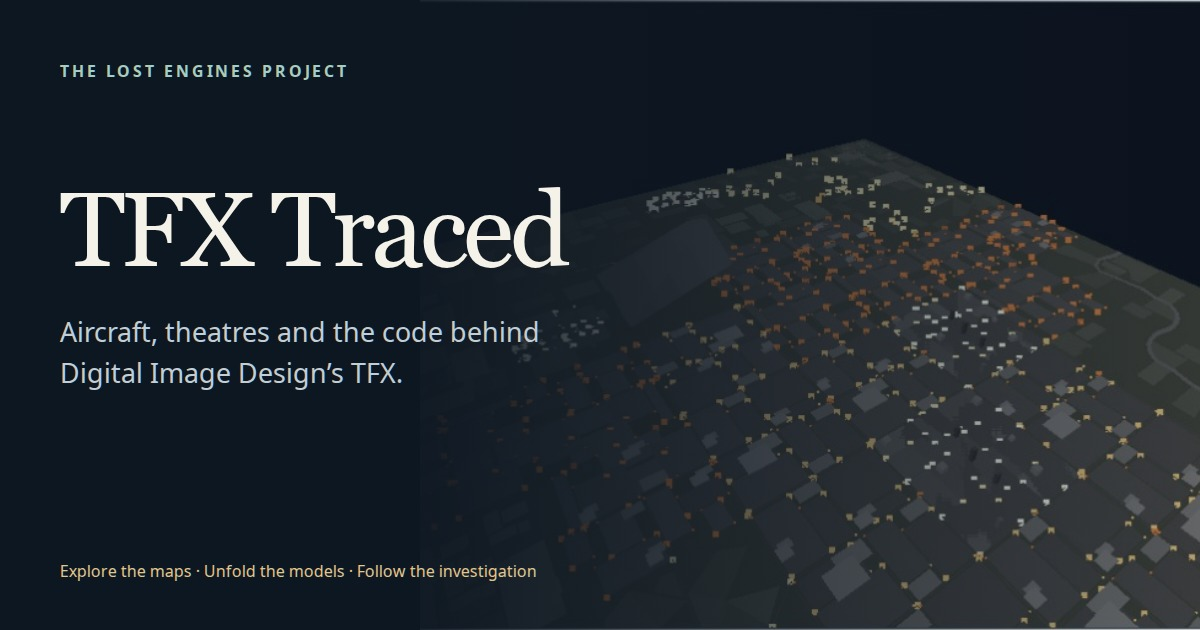
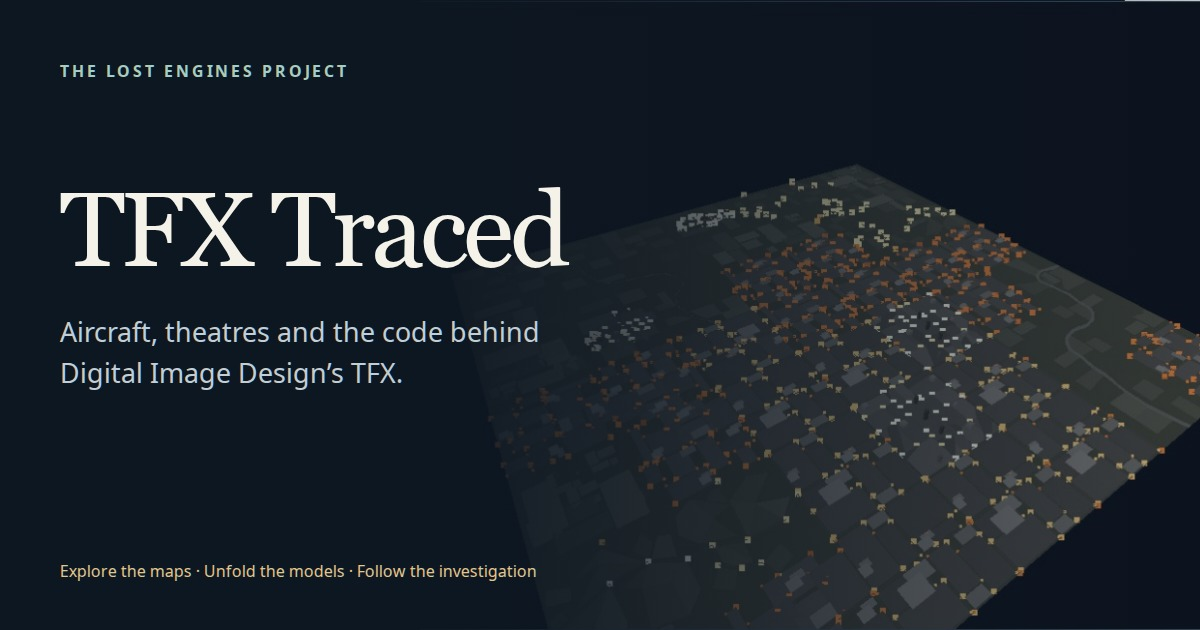
Use regional terrain with separate lighting in the map explorer

diff --git a/public/viewer/maps/viewer.js b/public/viewer/maps/viewer.js
@@ -1,7 +1,23 @@
 'use strict';
 const el=id=>document.getElementById(id),environments=TFX_WORLD.environments,missions=TFX_WORLD.missions;
-let environment=environments.find(e=>e.name==='yugos_n'),mission=null,x=136,z=114,yaw=.6,pitch=.65,distance=11,mesh,sceneRadius=1,hiddenRoutes=new Set();
-el('environment').replaceChildren(...environments.map(e=>new Option(e.name,e.name)));
+let environment=TFXScenery.environmentNamed('yugoslav'),lighting=TFXScenery.environmentNamed('yugos_n'),mission=null,x=136,z=114,yaw=.6,pitch=.65,distance=11,mesh,sceneRadius=1,hiddenRoutes=new Set();
+for(const [label,rows]of [
+ ['Game terrain',TFXScenery.regions.map(r=>new Option(`${r.label} (${r.name})`,r.name))],
+ ['Archived and auxiliary grids — inspection only',environments.filter(e=>!TFXScenery.isRegional(e)).map(e=>new Option(e.name==='clouds'?'clouds (cloud layer)':`Archived: ${e.name}`,e.name))]
+]){const group=document.createElement('optgroup');group.label=label;group.append(...rows);el('environment').append(group);}
+function chooseLighting(preferred){
+ const choices=TFXScenery.lightingChoices(environment),fallback=TFXScenery.regionFor(environment.name)?.day;
+ lighting=choices.find(e=>e.name===preferred)||choices.find(e=>e.name===fallback)||null;
+ el('lighting').replaceChildren(...choices.map(e=>new Option(e.name,e.name)));
+ el('lighting').disabled=!choices.length;if(lighting)el('lighting').value=lighting.name;
+}
+function updateURL(){
+ const url=new URL(location.href);url.hash=`${environment.name}/${x}/${z}`;
+ if(mission)url.searchParams.set('mission',mission.id);else url.searchParams.delete('mission');
+ if(lighting)url.searchParams.set('lighting',lighting.name);else url.searchParams.delete('lighting');
+ if(TFXScenery.isRegional(environment))url.searchParams.delete('retained');else url.searchParams.set('retained','1');
+ history.replaceState(null,'',url);
+}
 TFXMissions.groupSelect(el('mission-group'));
 TFXMissions.missionOptions(el('mission'),missions);
 el('palette').replaceChildren(...Object.keys(TFX_DATA.palettes).map(name=>new Option(name,name)));
@@ -47,16 +63,31 @@ function rebuild(){mesh=TFXScenery.assemble(environment,x,z,+el('radius').value,
  render();}
 function render(){if(!gl)return;const rect=canvas.getBoundingClientRect(),ratio=Math.min(devicePixelRatio||1,2);canvas.width=Math.round(rect.width*ratio);canvas.height=Math.round(rect.height*ratio);gl.viewport(0,0,canvas.width,canvas.height);gl.clearColor(.05,.08,.12,1);gl.clear(gl.COLOR_BUFFER_BIT|gl.DEPTH_BUFFER_BIT);gl.useProgram(program);/* Flip Y and Z together to preserve handedness in WebGL; match the model viewer's native orbit. */const camera=[Math.sin(yaw)*Math.cos(pitch)*distance,Math.sin(pitch)*distance,-Math.cos(yaw)*Math.cos(pitch)*distance],forward=camera.map(v=>-v/distance),right=[-Math.cos(yaw),0,-Math.sin(yaw)],up=[-Math.sin(yaw)*Math.sin(pitch),Math.cos(pitch),Math.cos(yaw)*Math.sin(pitch)];for(const [key,value] of Object.entries({camera,forward,right,up}))gl.uniform3fv(gl.getUniformLocation(program,key),value);gl.uniform1f(gl.getUniformLocation(program,'aspect'),canvas.width/canvas.height);gl.uniform1f(gl.getUniformLocation(program,'pixelScale'),Math.min(canvas.width/320,canvas.height/200));const near=Math.max(.01,(distance-sceneRadius)*.5),far=distance+sceneRadius+1;gl.uniform2fv(gl.getUniformLocation(program,'depthProjection'),[(far+near)/(far-near),2*far*near/(far-near)]);/* The inspection backdrop fills gaps but must never compete with
    authored terrain for depth, especially over distant flat water. */gl.depthMask(false);gl.drawArrays(gl.TRIANGLES,0,backdropVertexCount);gl.depthMask(true);gl.drawArrays(gl.TRIANGLES,backdropVertexCount,vertexCount-backdropVertexCount);gl.drawArrays(gl.LINES,lineStart,totalLines);gl.depthMask(false);gl.drawArrays(gl.POINTS,pointStart,totalPoints);gl.depthMask(true);if(el('bounds').checked)gl.drawArrays(gl.LINES,collisionStart,totalCollisions);}
-function drawMap(){const c=el('map'),ctx=c.getContext('2d');TFXMap.drawBackground(ctx,environment,palette(),el('map-mode').value);if(el('routes').checked&&mission){const set=TFX_WORLD.waypoints[mission.way];for(const [index,route] of (set?.routes||[]).entries()){if(hiddenRoutes.has(index))continue;ctx.strokeStyle=index===0?'#ffe77b':`hsl(${index*47%360} 80% 65%)`;ctx.lineWidth=index===0?3:1.5;ctx.beginPath();route.points.forEach((p,i)=>i?ctx.lineTo((p.x+.5)*4,(p.z+.5)*4):ctx.moveTo((p.x+.5)*4,(p.z+.5)*4));ctx.stroke();}}
+function drawMap(){const c=el('map'),ctx=c.getContext('2d');TFXMap.drawBackground(ctx,environment,palette(),el('map-mode').value,lighting);if(el('routes').checked&&mission){const set=TFX_WORLD.waypoints[mission.way];for(const [index,route] of (set?.routes||[]).entries()){if(hiddenRoutes.has(index))continue;ctx.strokeStyle=index===0?'#ffe77b':`hsl(${index*47%360} 80% 65%)`;ctx.lineWidth=index===0?3:1.5;ctx.beginPath();route.points.forEach((p,i)=>i?ctx.lineTo((p.x+.5)*4,(p.z+.5)*4):ctx.moveTo((p.x+.5)*4,(p.z+.5)*4));ctx.stroke();}}
  if(el('compiled').checked&&mission){const program=TFX_WAYPOINTS.programs.find(p=>p.names.some(n=>n===`waybin/${mission.way}.way`));if(program){for(const [i,r]of program.records.entries()){ctx.strokeStyle=r.type===18?'#fff399':r.type===16?'#fd9f70':'#78d7ff';ctx.fillStyle=ctx.strokeStyle;ctx.lineWidth=1;ctx.setLineDash([4,3]);ctx.beginPath();(r.route||[]).forEach((p,n)=>n?ctx.lineTo((p.x+.5)*4,(p.z+.5)*4):ctx.moveTo((p.x+.5)*4,(p.z+.5)*4));ctx.stroke();ctx.setLineDash([]);if(r.x!==undefined){ctx.fillRect((r.x+.5)*4-3,(r.z+.5)*4-3,6,6);}}}}
  if(el('poi').checked&&mission){for(const p of mission.points){ctx.fillStyle=p.kind==='start'?'#61ffee':'#ff7e63';ctx.beginPath();ctx.arc((p.x+(p.kind==='start'?0:.5))*4,(p.z+(p.kind==='start'?0:.5))*4,5,0,Math.PI*2);ctx.fill();ctx.strokeStyle='#000';ctx.stroke();}ctx.strokeStyle='#fc7cc4';for(const box of mission.flak)ctx.strokeRect(box[0]*4,box[1]*4,(box[2]-box[0])*4,(box[3]-box[1])*4);}
  ctx.strokeStyle='#fff';ctx.lineWidth=2;ctx.strokeRect(x*4-2,z*4-2,8,8);ctx.fillStyle='#fff';ctx.font='12px system-ui';for(let i=0;i<200;i+=25){ctx.fillText(i,i*4+3,13);ctx.fillText(i,3,i*4+15);}}
-function selectCell(){const id=environment.cells[z*200+x],tile=environment.tiles[id];el('cell-title').textContent=`Cell (${x}, ${z}) · tile ${id}`;el('cell-info').textContent=tile?`${tile.variants.length} scenery variants · preview: ${TFXScenery.variant(environment,x,z)} · rotation ${(tile.rotation*360/65536).toFixed(0)}°`:'Undefined tile index in the stored table';el('tile-data').textContent=JSON.stringify(tile||{undefined_tile:id},null,2);el('components').replaceChildren(...(tile?.variants||[]).map(name=>{const d=document.createElement('details'),summary=document.createElement('summary');summary.textContent=name+(name===TFXScenery.variant(environment,x,z)?' (previewed variant)':'');d.append(summary);const object=TFXScenery.objects.get(name),parts=TFXScenery.parts(name);for(const p of parts){const m=TFXScenery.models.get(p.name),a=document.createElement('a');a.textContent=`${p.name} at (${p.offset.join(', ')})`;if(m)a.href='../models/index.html#'+m.id;d.append(a,document.createElement('br'));}if(object){const pre=document.createElement('pre');pre.textContent=JSON.stringify({path:object.path,anchors:object.anchors,parts:object.parts,draw_parts:object.draw_parts,collision_tests:object.collision_tests,custom_initial_values:object.custom_initial_values,warnings:object.warnings},null,2);d.append(pre);}return d;}));history.replaceState(null,'',`#${environment.name}/${x}/${z}`);drawMap();rebuild();}
-function settings(){el('map-status').textContent=`${environment.name}: 200 × 200 cells, ${environment.tiles.length} authored tiles.`;}
-function selectMission(focus){mission=missions.find(m=>m.id===el('mission').value)||null;hiddenRoutes.clear();if(mission){const env=environments.find(e=>e.name===mission.environment);if(env){environment=env;el('environment').value=env.name;choosePalette();}const start=mission.points.find(p=>p.kind==='start');if(start){x=Math.max(0,Math.min(199,Math.floor(start.x)));z=Math.max(0,Math.min(199,Math.floor(start.z)));}}const set=mission&&TFX_WORLD.waypoints[mission.way];el('mission-data').textContent=mission?.script||'Select a mission to inspect its script.';TFXMissions.card(el('mission-info'),mission);const url=new URL(location.href);if(mission)url.searchParams.set('mission',mission.id);else url.searchParams.delete('mission');history.replaceState(null,'',url);el('way-data').textContent=set?.text||'No corresponding waypoint text was recovered.';el('route-list').replaceChildren(...(set?.routes||[]).map((r,i)=>{const label=document.createElement('label');label.style.display='flex';const box=document.createElement('input');box.type='checkbox';box.checked=true;box.onchange=()=>{box.checked?hiddenRoutes.delete(i):hiddenRoutes.add(i);drawMap();};label.append(box,`${r.name} (${r.points.length} waypoints)`);return label;}));if(focus?.environment===environment.name){x=focus.x;z=focus.z;}settings();selectCell();}
-function choosePalette(){el('palette').value=TFXMap.paletteName(environment);el('night-lights').checked=Boolean(TFXScenery.environmentStatus(environment));}
+function selectCell(){const id=environment.cells[z*200+x],tile=environment.tiles[id];el('cell-title').textContent=`Cell (${x}, ${z}) · tile ${id}`;el('cell-info').textContent=tile?`${tile.variants.length} scenery variants · preview: ${TFXScenery.variant(environment,x,z)} · rotation ${(tile.rotation*360/65536).toFixed(0)}°`:'Undefined tile index in the stored table';el('tile-data').textContent=JSON.stringify(tile||{undefined_tile:id},null,2);el('components').replaceChildren(...(tile?.variants||[]).map(name=>{const d=document.createElement('details'),summary=document.createElement('summary');summary.textContent=name+(name===TFXScenery.variant(environment,x,z)?' (previewed variant)':'');d.append(summary);const object=TFXScenery.objects.get(name),parts=TFXScenery.parts(name);for(const p of parts){const m=TFXScenery.models.get(p.name),a=document.createElement('a');a.textContent=`${p.name} at (${p.offset.join(', ')})`;if(m)a.href='../models/index.html#'+m.id;d.append(a,document.createElement('br'));}if(object){const pre=document.createElement('pre');pre.textContent=JSON.stringify({path:object.path,anchors:object.anchors,parts:object.parts,draw_parts:object.draw_parts,collision_tests:object.collision_tests,custom_initial_values:object.custom_initial_values,warnings:object.warnings},null,2);d.append(pre);}return d;}));updateURL();drawMap();rebuild();}
+function settings(){el('map-status').textContent=TFXScenery.mapDescription(environment,lighting);el('grid-note').textContent=TFXScenery.gridNote(environment);}
+function selectMission(focus){mission=missions.find(m=>m.id===el('mission').value)||null;hiddenRoutes.clear();if(mission){const env=TFXScenery.missionGrid(mission);if(env){environment=env;el('environment').value=env.name;chooseLighting(mission.environment);choosePalette();}const start=mission.points.find(p=>p.kind==='start');if(start){x=Math.max(0,Math.min(199,Math.floor(start.x)));z=Math.max(0,Math.min(199,Math.floor(start.z)));}}const set=mission&&TFX_WORLD.waypoints[mission.way];el('mission-data').textContent=mission?.script||'Select a mission to inspect its script.';TFXMissions.card(el('mission-info'),mission);el('way-data').textContent=set?.text||'No corresponding waypoint text was recovered.';el('route-list').replaceChildren(...(set?.routes||[]).map((r,i)=>{const label=document.createElement('label');label.style.display='flex';const box=document.createElement('input');box.type='checkbox';box.checked=true;box.onchange=()=>{box.checked?hiddenRoutes.delete(i):hiddenRoutes.add(i);drawMap();};label.append(box,`${r.name} (${r.points.length} waypoints)`);return label;}));if(focus?.environment===environment.name){x=focus.x;z=focus.z;}settings();selectCell();}
+function choosePalette(){el('palette').value=TFXMap.paletteName(lighting||environment);el('night-lights').checked=Boolean(lighting&&TFXScenery.environmentStatus(lighting));}
 function filterMissions(){const previous=el('mission').value,query=el('mission-search').value,rows=missions.filter(m=>TFXMissions.matches(m,el('mission-group').value)&&TFXMissions.search(m,query));TFXMissions.missionOptions(el('mission'),rows);if(rows.some(m=>m.id===previous))el('mission').value=previous;if(el('mission').value!==previous)selectMission();}
 el('mission-group').onchange=filterMissions;el('mission-search').oninput=filterMissions;
-el('environment').onchange=()=>{environment=environments.find(e=>e.name===el('environment').value);mission=null;el('mission').value='';choosePalette();settings();selectMission();};el('mission').onchange=selectMission;el('palette').onchange=()=>{drawMap();rebuild();};for(const id of ['routes','poi','compiled','map-mode'])el(id).onchange=drawMap;el('map').onclick=e=>{const r=e.currentTarget.getBoundingClientRect();x=Math.max(0,Math.min(199,Math.floor((e.clientX-r.left)/r.width*200)));z=Math.max(0,Math.min(199,Math.floor((e.clientY-r.top)/r.height*200)));selectCell();};el('radius').onchange=()=>{distance=Math.max(3,(+el('radius').value+1)*2.5);rebuild();};el('bounds').onchange=render;el('night-lights').onchange=rebuild;el('reset').onclick=()=>{yaw=.6;pitch=.65;distance=Math.max(3,(+el('radius').value+1)*3);render();};let pointer;
+el('environment').onchange=()=>{environment=environments.find(e=>e.name===el('environment').value);mission=null;el('mission').value='';chooseLighting(environment.name);choosePalette();settings();selectMission();};el('mission').onchange=selectMission;el('lighting').onchange=()=>{lighting=TFXScenery.environmentNamed(el('lighting').value);choosePalette();settings();updateURL();drawMap();rebuild();};el('palette').onchange=()=>{drawMap();rebuild();};for(const id of ['routes','poi','compiled','map-mode'])el(id).onchange=drawMap;el('map').onclick=e=>{const r=e.currentTarget.getBoundingClientRect();x=Math.max(0,Math.min(199,Math.floor((e.clientX-r.left)/r.width*200)));z=Math.max(0,Math.min(199,Math.floor((e.clientY-r.top)/r.height*200)));selectCell();};el('radius').onchange=()=>{distance=Math.max(3,(+el('radius').value+1)*2.5);rebuild();};el('bounds').onchange=render;el('night-lights').onchange=rebuild;el('reset').onclick=()=>{yaw=.6;pitch=.65;distance=Math.max(3,(+el('radius').value+1)*3);render();};let pointer;
 canvas.onpointerdown=e=>{pointer=[e.clientX,e.clientY];canvas.setPointerCapture(e.pointerId);};canvas.onpointermove=e=>{if(!pointer)return;yaw+=(e.clientX-pointer[0])*.008;pitch=Math.max(-.2,Math.min(1.5,pitch+(e.clientY-pointer[1])*.008));pointer=[e.clientX,e.clientY];render();};canvas.onpointerup=canvas.onpointercancel=()=>pointer=null;canvas.onwheel=e=>{e.preventDefault();distance=Math.max(.2,Math.min(Math.max(80,sceneRadius*4),distance*Math.exp(e.deltaY*.001)));render();};addEventListener('resize',render);
-const hash=location.hash.slice(1).split('/');if(hash.length===3&&environments.some(e=>e.name===hash[0])){environment=environments.find(e=>e.name===hash[0]);x=Math.max(0,Math.min(199,+hash[1]||0));z=Math.max(0,Math.min(199,+hash[2]||0));el('environment').value=environment.name;}choosePalette();const requestedMission=new URLSearchParams(location.search).get('mission');if(requestedMission)el('mission').value=requestedMission;selectMission(hash.length===3?{environment:hash[0],x,z}:null);
+const query=new URLSearchParams(location.search),hash=location.hash.slice(1).split('/');
+let focus=null,requestedLighting=query.get('lighting')||lighting.name;
+if(hash.length===3&&TFXScenery.environmentNamed(hash[0])){
+ const stored=TFXScenery.environmentNamed(hash[0]),region=TFXScenery.regionFor(stored.name);
+ // Old public links named the weather setting. Keep their location and
+ // lighting while moving to the game terrain; retained=1 explicitly opts out.
+ environment=query.get('retained')==='1'||!region?stored:TFXScenery.environmentNamed(region.name);
+ requestedLighting=query.get('lighting')||(stored.config?stored.name:TFXScenery.regionFor(stored.name)?.day);
+ x=Math.max(0,Math.min(199,+hash[1]||0));z=Math.max(0,Math.min(199,+hash[2]||0));
+ focus={environment:environment.name,x,z};el('environment').value=environment.name;
+}
+chooseLighting(requestedLighting);choosePalette();
+const requestedMission=query.get('mission');if(requestedMission)el('mission').value=requestedMission;
+selectMission(focus);
+// An explicit lighting choice survives reloading a mission deep link.
+if(query.has('lighting')){chooseLighting(query.get('lighting'));choosePalette();settings();selectCell();}

diff --git a/public/viewer/maps/world.js b/public/viewer/maps/world.js
@@ -13,6 +13,29 @@ function geometry(name,status=0){const key=`${name}:${status}`;if(cache.has(key)
 // The original environment parser sets the shape status bit tested by city
 // and runway programs. Twilight configurations also explicitly request night.
 function environmentStatus(environment){return (environment.config||'').split(/\s+/).includes('night')?nightStatus:0;}
+// The mission's world selects geometry; type selects a separate lighting
+// configuration. Weather-named grids are retained data, not retail maps.
+const regions=[
+ {name:'yugoslav',label:'Yugoslavia',prefix:'yugos',day:'yugos_d'},
+ {name:'columbia',label:'Colombia',prefix:'colum',day:'colum_d'},
+ {name:'somalia',label:'Somalia',prefix:'somal',day:'somal_d'},
+ {name:'libya',label:'Libya',prefix:'libya',day:'libya_d'},
+ {name:'seaworld',label:'Atlantic',prefix:'sea',day:'seaclear'}
+];
+const environmentNamed=name=>TFX_WORLD.environments.find(e=>e.name===name);
+function regionFor(name){return regions.find(r=>name?.startsWith(r.prefix)||(name==='y_winter'&&r.name==='yugoslav'));}
+function isRegional(environment){return regions.some(r=>r.name===environment?.name);}
+function missionGrid(mission){return environmentNamed(mission?.world?.toLowerCase().slice(0,8));}
+function lightingChoices(environment){const region=regionFor(environment?.name);return TFX_WORLD.environments.filter(e=>region&&regionFor(e.name)===region&&/\b(day|night)\b/.test(e.config));}
+function gridNote(environment){
+ if(environment.name==='clouds')return 'Cloud-layer geometry, shown here in isolation from its runtime altitude and regional ground map.';
+ return isRegional(environment)?'':'Archived terrain: this grid is not used for retail mission terrain. Obsolete scenery may appear here.';
+}
+function mapDescription(environment,lighting){
+ const note=gridNote(environment);
+ const undefinedCount=Object.keys(environment.undefined_tile_indices).length;
+ return `${environment.name}: ${environment.width} × ${environment.height} cells, ${environment.tiles.length} authored tiles. Lighting: ${lighting?.name||'none'}.${note?' '+note:''}${undefinedCount?' Undefined stored tile references are shown magenta.':''}`;
+}
 function parts(name){const definition=objects.get(name);if(!definition)return[{name,offset:[0,0,0]}];const draws=definition.draw_parts.length?definition.draw_parts:definition.parts.filter(p=>p.slot===0).map(p=>({slot:p.slot}));return draws.map(draw=>{const p=definition.parts.find(p=>p.slot===draw.slot);return p?{...p,offset:definition.anchors[draw.anchor]||[0,0,0]}:null;}).filter(Boolean);}
 // SSD draw calls enqueue complete shapes. Native 0xcc226 adds the model's
 // signed header bias to camera depth; the queue then paints far to near.
@@ -85,5 +108,5 @@ function assemble(environment,x,z,radius=0,{status=environmentStatus(environment
  }
  return{faces,lines,points,collisions,warnings:[...warnings],cells};
 }
-root.TFXScenery={assemble,parts,drawOrder,geometry,environmentStatus,nightStatus,variant,rotateTile,models,objects};
+root.TFXScenery={regions,environmentNamed,regionFor,isRegional,missionGrid,lightingChoices,gridNote,mapDescription,assemble,parts,drawOrder,geometry,environmentStatus,nightStatus,variant,rotateTile,models,objects};
 })(globalThis);

diff --git a/src/maps.html b/src/maps.html
@@ -1,7 +1,8 @@
 <noscript><p>The interactive viewer needs JavaScript. You can still <a href="../story/">read the illustrated investigation</a>.</p></noscript>
 
 <h1>Five theatres, thousands of small decisions</h1><p class="muted">Click the map to visit a patch of terrain. Increase the neighbourhood radius to see how the pieces fit together, or choose a mission to trace its routes and read the briefing. Try the night lights over Yugoslavia’s cities.</p>
-<div class="toolbar mission-navigation"><label>Mode / campaign <select id="mission-group"></select></label><label>Find mission <input id="mission-search" placeholder="Number, briefing, location…" type="search"/></label><label>Environment <select id="environment"></select></label><label>Mission <select id="mission"></select></label><label>Palette <select id="palette"></select></label></div>
+<div class="toolbar mission-navigation"><label>Mode / campaign <select id="mission-group"></select></label><label>Find mission <input id="mission-search" placeholder="Number, briefing, location…" type="search"/></label><label>Terrain <select id="environment"></select></label><label>Lighting <select id="lighting"></select></label><label>Mission <select id="mission"></select></label><label>Palette <select id="palette"></select></label></div>
+<p id="grid-note" class="muted" role="status"></p>
 <div class="panel" hidden="" id="mission-info"></div>
 <div class="split"><div><canvas height="800" aria-label="Top-down theatre map; select a cell to view its scenery" id="map" style="width:100%;border:1px solid #405063" width="800"></canvas><div class="toolbar"><label>Map <select id="map-mode"><option value="terrain">Terrain colours</option><option value="schematic">Original schematic</option><option value="ids">Tile identifiers</option></select></label><label><input checked="" id="routes" type="checkbox"/> Waypoints</label><label><input checked="" id="compiled" type="checkbox"/> Compiled actors &amp; routes</label><label><input checked="" id="poi" type="checkbox"/> Targets &amp; start</label></div><div class="panel" id="route-list" style="max-height:240px;overflow:auto"></div></div>
 <div><canvas height="700" aria-label="Assembled scenery; drag to orbit and scroll to zoom" id="scene" style="width:100%;background:#101824;border:1px solid #405063" width="1100"></canvas><div class="toolbar"><label>Neighbourhood radius <input id="radius" max="50" min="0" type="range" value="3"/><span id="radius-value">3 tiles</span></label><button id="reset">Reset view</button><label><input id="night-lights" type="checkbox"/> Night lights</label><label><input id="bounds" type="checkbox"/> Collision tests</label></div><p class="muted" id="scene-status"></p><div class="panel"><h2 id="cell-title"></h2><p id="cell-info"></p><div id="components"></div><details hidden=""><summary>Tile authoring metadata</summary><pre id="tile-data"></pre></details></div></div></div>

diff --git a/public/viewer/maps/map.js b/public/viewer/maps/map.js
@@ -10,7 +10,7 @@ function paletteName(environment) {
   return TFX_DATA.palettes[region]?region:Object.keys(TFX_DATA.palettes)[0];
 }
 function schematic(environment) {
-  const name=environment.config.trim().split(/\s+/).at(-1);
+  const name=environment?.config.trim().split(/\s+/).at(-1);
   if(!name)return null;
   const sprite=TFX_MEDIA.entries.find(e=>e.family==='sprites'&&(e.name===name||e.names.includes(`spr/${name}.spr`)));
   const frame=sprite?.frames[0];
@@ -36,10 +36,10 @@ function terrainColour(environment,colours,index,x,z,mode) {
   }
   return(colours[terrainColours.get(name)]||[15,22,30]).map(v=>Math.round(v*255/63));
 }
-function drawBackground(ctx,environment,colours,mode='terrain') {
+function drawBackground(ctx,environment,colours,mode='terrain',lighting=environment) {
   let cached=backgrounds.get(environment);
-  if(!cached||cached.colours!==colours||cached.mode!==mode) {
-    const {width,height}=environment,frame=mode==='schematic'?schematic(environment):null;
+  if(!cached||cached.colours!==colours||cached.mode!==mode||cached.lighting!==lighting) {
+    const {width,height}=environment,frame=mode==='schematic'?schematic(lighting):null;
     const bytes=frame?atob(frame.pixels):null,pixels=new Uint8ClampedArray(width*height*4);
     for(let i=0;i<width*height;i++) {
       const x=i%width,z=Math.floor(i/width);
@@ -49,7 +49,7 @@ function drawBackground(ctx,environment,colours,mode='terrain') {
     }
     const canvas=document.createElement('canvas');canvas.width=width;canvas.height=height;
     canvas.getContext('2d').putImageData(new ImageData(pixels,width,height),0,0);
-    cached={canvas,colours,mode,actualMode:mode==='schematic'&&!frame?'terrain':mode};
+    cached={canvas,colours,mode,lighting,actualMode:mode==='schematic'&&!frame?'terrain':mode};
     backgrounds.set(environment,cached);
   }
   ctx.imageSmoothingEnabled=false;

diff --git a/scripts/check-browser.py b/scripts/check-browser.py
@@ -45,9 +45,30 @@ with sync_playwright() as p:
  boundary(page)
  page.close()
  page=open_page('maps/#yugos_n/136/114')
+ assert page.locator('#environment').input_value()=='yugoslav'
+ assert page.locator('#lighting').input_value()=='yugos_n'
  assert page.locator('#night-lights').is_checked()
  assert page.evaluate('totalPoints')>1000
  assert page.evaluate('gl.getError()')==0
+ # Old weather-named URLs migrate to regional terrain; archived data is opt-in.
+ page.goto(base+'maps/#yugos_n/137/113',wait_until='load')
+ assert 'tile 59' in page.locator('#cell-title').inner_text()
+ assert page.evaluate('mesh.faces.filter(f=>f.cell?.[0]===137&&f.cell[1]===113).every(f=>f.vertices.every(v=>v[1]===0))')
+ page.locator('#environment').select_option('yugos_n')
+ assert 'tile 105' in page.locator('#cell-title').inner_text()
+ assert 'Archived terrain' in page.locator('#grid-note').inner_text()
+ assert 'retained=1' in page.url
+ page.reload(wait_until='load')
+ assert page.locator('#environment').input_value()=='yugos_n'
+ page.locator('#environment').select_option('yugoslav')
+ page.locator('#lighting').select_option('yugos_n')
+ page.locator('#map-mode').select_option('schematic')
+ assert page.evaluate('TFXMap.schematic(lighting).width')==200
+ assert 'retained=1' not in page.url
+ page.locator('#lighting').select_option('yugos_d')
+ assert page.evaluate('totalPoints')==0
+ assert 'tile 59' in page.locator('#cell-title').inner_text()
+ page.locator('#lighting').select_option('yugos_n')
  page.locator('#night-lights').uncheck();assert page.evaluate('totalPoints')==0
  page.locator('#night-lights').check()
  page.locator('#radius').fill('5');page.locator('#radius').dispatch_event('change')
@@ -57,6 +78,7 @@ with sync_playwright() as p:
  assert page.locator('#mission option').count()==11
  page.locator('#mission').select_option('904ccca3')
  assert 'Hop 1 of 10' in page.locator('#mission-info').inner_text()
+ assert page.evaluate('environment.name===mission.world.slice(0,8)&&lighting.name===mission.environment')
  page.locator('#mission-group').select_option('all')
  page.locator('#mission').select_option('9a6eb4a1')
  page.locator('#mission-info summary').filter(has_text='Full briefing').click()

diff --git a/content/investigation.md b/content/investigation.md
@@ -46,7 +46,7 @@ The five theatres are built from 200 × 200 grids. A cell identifies a terrain d
 
 That distinction matters. A runway is not necessarily one runway model, and an oil rig's smoke does not have to be baked into its main shape. Missing an anchor piles the parts at the origin. Applying the standalone model viewer's convenient scale to a whole scene can make a runway enormous. Both mistakes looked superficially plausible until we compared the assemblies with the native drawing calls.
 
-The [map explorer](../maps/) shows recovered terrain and scenery, with mission starts, targets, briefings and routes. Environments include changes in weather and lighting; 39 environment records do not mean 39 unrelated theatres. Some retained configurations have unresolved tile references, which remain visible rather than being silently replaced.
+The [map explorer](../maps/) shows recovered terrain and scenery, with mission starts, targets, briefings and routes. Terrain and lighting are separate choices: a night mission uses the same regional ground map with a different lighting configuration. We initially mistook weather-named archived grids for the playable maps, which put floating mountain slopes where motorway tiles should have been. The explorer now follows the game’s selection; those older grids remain available, labelled as archived inspection data.
 
 <figure><img src="../images/city.png" alt="Warm amber points marking the roads through reconstructed Yugoslavian city scenery" loading="lazy"><figcaption>Night streets are drawn with carefully placed palette-coloured points. They do not cast light onto the surrounding buildings.</figcaption></figure>
 
